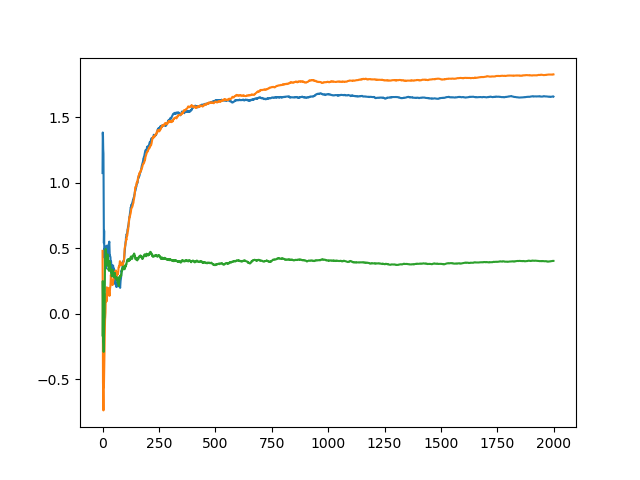
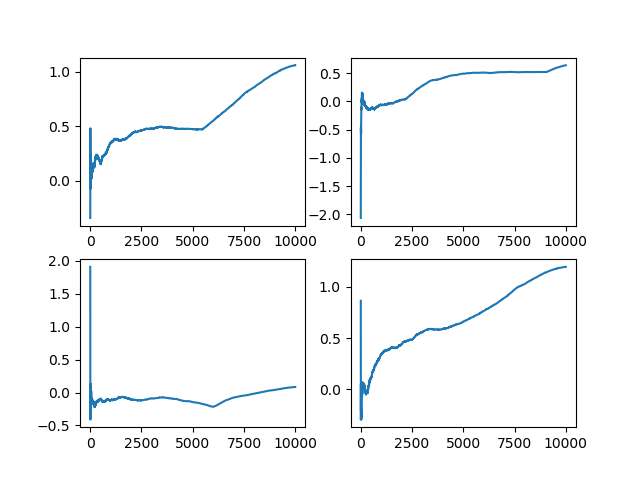
Non Stationary Env

diff --git a/BanditsAgent.py b/BanditsAgent.py
@@ -37,3 +37,44 @@ class ActionValueAgent(object):
     logger.info(self.q_values)
     logger.info("action num %d average rewards: %s optimal %d (%s) ", select_num, self.total_rewards / select_num,
                 self.env.optimal_action(), self.select_num[self.env.optimal_action()] / select_num)
+
+
+
+class NonStationaryActionValueAgent(object):
+  def __init__(self, env, epsilon=0.1, num_actions=10):
+    self.env = env
+    self.epsilon = epsilon
+    self.num_actions = num_actions
+    self.select_num = np.zeros(self.num_actions)
+    #self.q_values = np.random.normal(0, 1, self.num_actions)
+    self.q_values = np.ones(self.num_actions)
+    self.total_rewards = 0
+    self.average_rewards = []
+    self.optimal_action = []
+    self.num_optimal = 0
+    logger.info(self.q_values)
+
+  def train(self, action, rewards):
+    self.select_num[action] += 1
+    alpha = 0.1 #1.0 / self.select_num[action]
+    self.q_values[action] = self.q_values[action] + (rewards - self.q_values[action]) * alpha
+    self.total_rewards += rewards
+    self.average_rewards.append(self.total_rewards / np.sum(self.select_num))
+    if self.env.optimal_action() == action:
+      self.num_optimal += 1
+
+    self.optimal_action.append(self.num_optimal * 1.0 / np.sum(self.select_num))
+
+  def step(self):
+    action = random.randint(0, self.num_actions - 1)
+    if random.random() > self.epsilon:
+      action = np.argmax(self.q_values)
+
+    rewards = self.env.do_action(action = action)
+    self.train(action, rewards)
+
+  def done(self):
+    select_num = np.sum(self.select_num)
+
+    logger.info(self.q_values)
+    logger.info("action num %d average rewards: %s optimal_action (%s) ", select_num, self.total_rewards / select_num, self.optimal_action[-1] / select_num)

diff --git a/main.py b/main.py
@@ -1,6 +1,6 @@
 import tensorflow as tf
 import numpy as np
-from testbed import Testbed
+from testbed import *
 
 from sklearn import logger
 from BanditsAgent import *
@@ -14,27 +14,40 @@ if __name__ == '__main__':
   testbed = Testbed(
     action_values=[0.18561972, 0.05399372, -0.10540842, 0.5938879, 0.38869048, 0.54136417, 0.03121748, 0.38784468,
                    0.0560689, 1.89177961])
+
+  testbed = NonStationaryTestbed()
   reward = testbed.do_action(0)
   logger.info("reward %s", reward)
 
-  steps_num = 2000
-  agents = [ActionValueAgent(env=testbed, epsilon=0.1), ActionValueAgent(env=testbed, epsilon=0.01), ActionValueAgent(env=testbed, epsilon=0)]
+  steps_num = 10000
+  agents = [ActionValueAgent(env=testbed, epsilon=0.1), ActionValueAgent(env=testbed, epsilon=0.01), ActionValueAgent(env=testbed, epsilon=0), NonStationaryActionValueAgent(env = testbed, epsilon=0.1)]
 
   for i in range(0, steps_num):
     for a in agents:
       a.step()
+    testbed.upgrade()
 
   for a in agents:
     a.done()
 
+
+  idx = 1
+
+  plt.figure(1)
   for a in agents:
+    plt.subplot("22" + str(idx))
+    idx+=1
     plt.plot(a.average_rewards)
 
   plt.savefig("average_reward.png")
 
   plt.close()
 
+  plt.figure(1)
+  idx = 1
   for a in agents:
+    plt.subplot("22" + str(idx))
     plt.plot(a.optimal_action)
+    idx+=1
 
   plt.savefig("optimal_action.png")

diff --git a/testbed.py b/testbed.py
@@ -29,3 +29,25 @@ class Testbed(object):
 
   def optimal_action(self):
     return np.argmax(self.action_values)
+
+class NonStationaryTestbed(object):
+  def __init__(self, action_num=10, action_values=[]):
+    if len(action_values) == 0:
+      self.action_num = action_num
+      self.action_values = np.zeros(self.action_num) #np.random.normal(0, 1, self.action_num);
+    else:
+      self.action_num = len(action_values)
+      self.action_values = action_values
+    logger.info("action_values %s", self.action_values)
+
+  def do_action(self, action):
+    assert 0 <= action < self.action_num
+    #adding a normally distributed incrementally with mean zero and standard deviation 0.01
+    #self.action_values += np.random.normal(0, 0.01, 10)
+    return np.random.normal(self.action_values[action], 1, 1)[0]
+
+  def upgrade(self):
+    self.action_values += np.random.normal(0, 0.01, 10)
+
+  def optimal_action(self):
+    return np.argmax(self.action_values)
